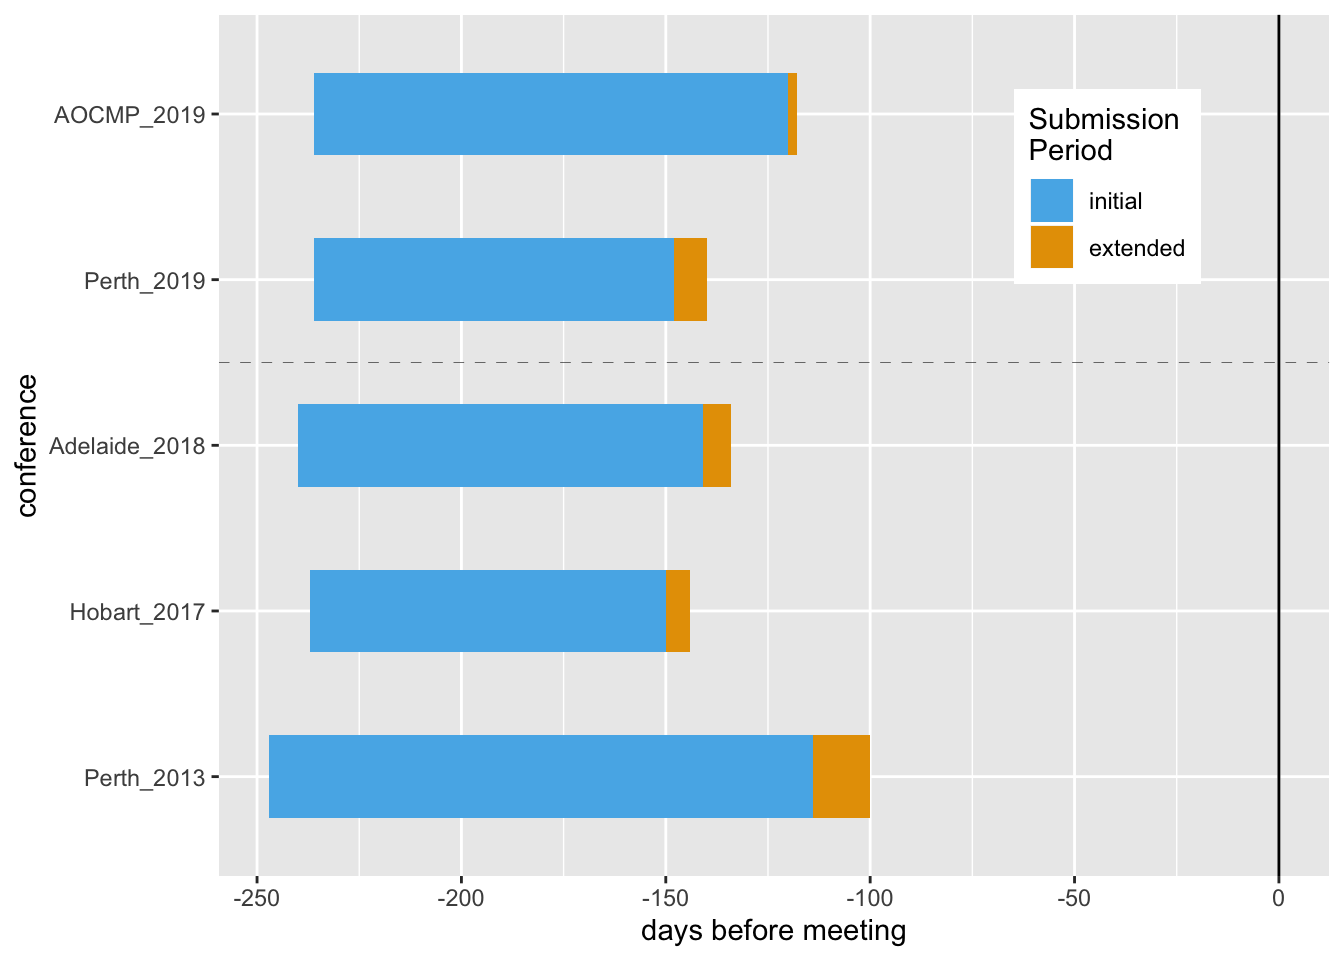
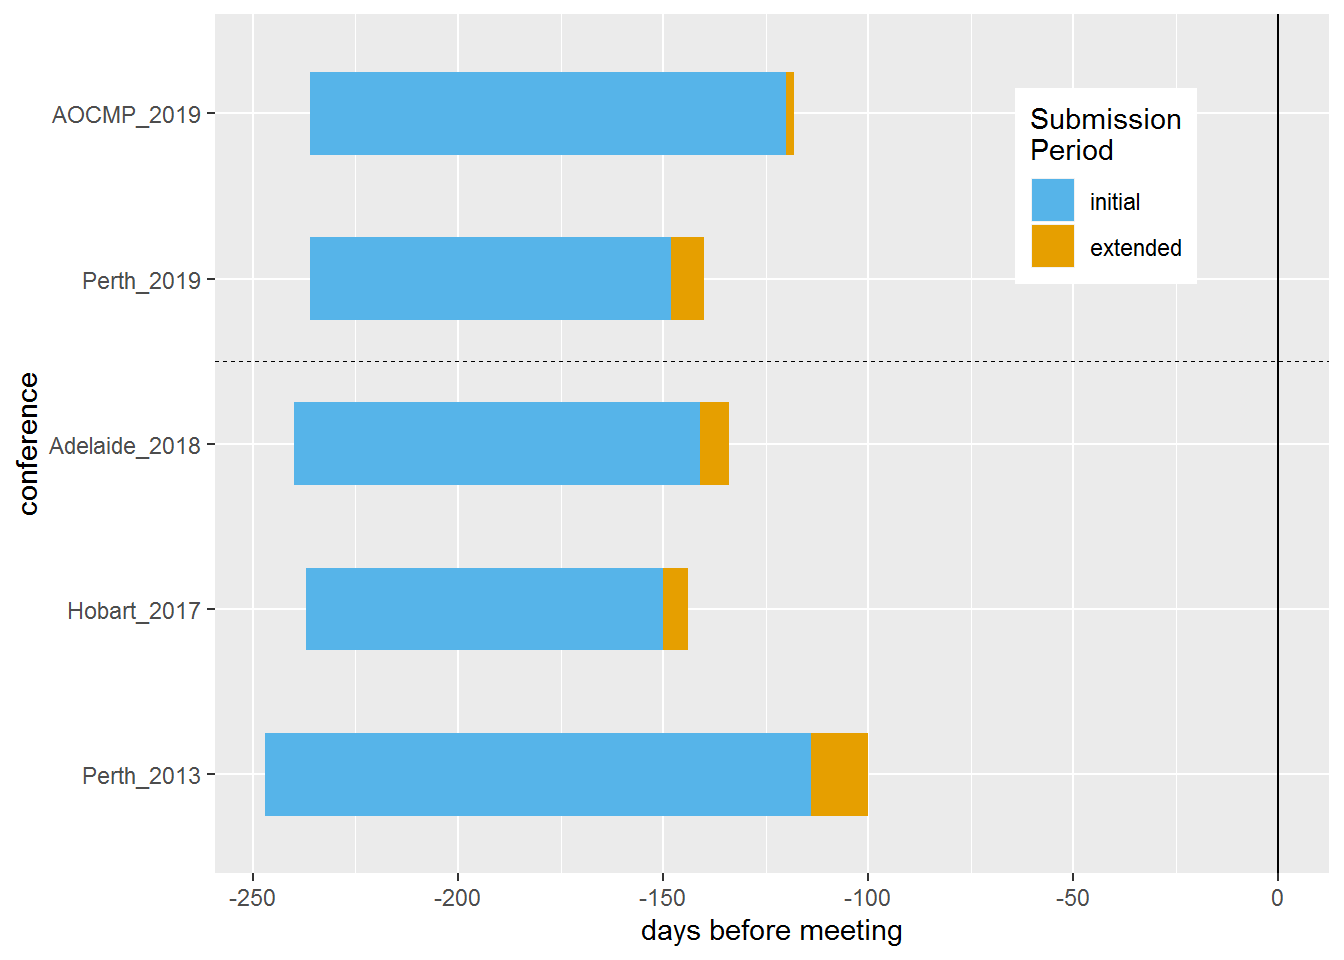
negative days kludge fixed

diff --git a/posterdown_01.html b/posterdown_01.html
@@ -382,12 +382,9 @@ Robert Day<sup>1</sup>
 </div>
 
 <div id="the-prologue" class="section level1">
-<h1>The prologue…</h1>
+<h1>the prologue…</h1>
 <p>When EPSM came to Perth in 2013 it looked like making a huge loss.</p>
-<p>To save money, branch members did most of the work of handling submissions, scheduling and making the abstract book.
-Just like the old days.
-This gave us direct access to the submission data, so we Scienced it.
-What we saw was that people:</p>
+<p>To save money, branch members did most of the work of handling submissions, scheduling and making the abstract book. Just like the old days. This gave us direct access to the submission data, so we Scienced it. What we saw was that people:</p>
 <ol style="list-style-type: lower-alpha">
 <li>left their submission to the very last minute</li>
 <li><em>definitely</em> expected a deadline extension</li>
@@ -397,25 +394,18 @@ What we saw was that people:</p>
 </div>
 <div id="shiny-happy-data" class="section level1">
 <h1>shiny, happy data</h1>
-<p>This year’s Conference The initial raw data contained information that could be used to identify individual papers or submitters.
-To protect everyone’s secret identities, these data were scrubbed clean.
-In the process, they were rearranged into a single standard format for comparison between meetings.
-The technical term for this is <em>munging</em>.</p>
+<p>Some raw data contained information that could be used to identify individual papers or submitters. To protect everyone’s secret identities, these data were scrubbed clean. In the process, they were rearranged into a single standard format for comparison between meetings. The technical term for this is <em>munging</em>.</p>
 <p>Only sparkling clean pre-munged data are included in this project for your convenience.</p>
 </div>
-<div id="results" class="section level1">
-<h1>Results</h1>
+<div id="they-did-what" class="section level1">
+<h1>they did what?</h1>
 <div class="figure" style="text-align: center"><span id="fig:unnamed-chunk-2"></span>
 <img src="posterdown_01_files/figure-html/unnamed-chunk-2-1.png" alt="Time allowed for submissions by conference" width="80%" />
 <p class="caption">
 Figure 1: Time allowed for submissions by conference
 </p>
 </div>
-<p>EPSM conferences vary in the length of time they allow for submitting abstracts,
-although they all call for papers about 240 days before the conference.
-Perth 2013 opened earlier and for longer,
-with an extension period twice that of other conferences.
-This was done to maximise the number of <del>income generating units</del> attendees.</p>
+<p>EPSM conferences vary in the length of time they allow for submitting abstracts, although they all call for papers about 240 days before the conference. Perth 2013 opened earlier and for longer, with an extension period twice that of other conferences. This was done to maximise the number of <del>income generating units</del> attendees.</p>
 There were plenty of papers at each conference.
 <table>
 <caption>
@@ -514,13 +504,13 @@ Hobart_2017
 Perth_2013
 </td>
 <td style="text-align:right;">
-0
+44
 </td>
 <td style="text-align:right;">
-0
+154
 </td>
 <td style="text-align:right;">
-219
+21
 </td>
 <td style="text-align:right;">
 219
@@ -529,18 +519,13 @@ Perth_2013
 </tbody>
 </table>
 <p>Perth 2019 is a monster with the assistance of AOCMP, weighing in at 334 papers in total.</p>
-<p>Hobart in 2017 looks a bit light on, but this may be due to some late submissions
-being missed<a href="#fn1" class="footnote-ref" id="fnref1"><sup>1</sup></a>.</p>
-<p>AOCMP authors appear to be good at keeping to deadlines, with 2/3 of submissions in before the advertised close, and no late submissions.
-<img src="posterdown_01_files/figure-html/unnamed-chunk-4-1.png" width="100%" style="display: block; margin: auto;" /></p>
-<p>By contrast EPSM authors like to live dangerously, with
-38.7%
-of submissions in the extension period on average.</p>
+<p>Hobart in 2017 looks a bit light on, but this may be due to some late submissions being missed<a href="#fn1" class="footnoteRef" id="fnref1"><sup>1</sup></a>.</p>
+<p>AOCMP authors appear to be good at keeping to deadlines, with 2/3 of submissions in before the advertised close, and no late submissions. <img src="posterdown_01_files/figure-html/unnamed-chunk-4-1.png" width="100%" style="display: block; margin: auto;" /></p>
+<p>By contrast EPSM authors like to live dangerously, with 56.3% of submissions in the extension period on average.</p>
 </div>
 <div id="what-themes-abounded" class="section level1">
 <h1>what themes abounded?</h1>
-<p>Only the Perth meetings have submission details, which were grouped by broad themes for comparison.
-<img src="posterdown_01_files/figure-html/unnamed-chunk-5-1.png" width="100%" style="display: block; margin: auto;" /></p>
+<p>Only the Perth meetings have submission details, which were grouped by broad themes for comparison. <img src="posterdown_01_files/figure-html/unnamed-chunk-5-1.png" width="100%" style="display: block; margin: auto;" /></p>
 <p>The share of abstracts in each discipline seems fairly stable over time, although EPSM 2013 had more ROMP and Engineering related content and less Nuclear Medcine or Health Physics. The high number in Engineering may have been because Engineers on the conference committee actively extorted submissions.</p>
 <pre><code>##          topic AOCMP 2019 EPSM 2013 EPSM 2019
 ## 1:         Eng       5.13      7.76      3.69
@@ -549,8 +534,7 @@ of submissions in the extension period on average.</p>
 ## 4:        ROMP      56.41     67.12     64.98
 ## 5:   Radiology       3.42      7.76      7.83
 ## 6:       other      29.06     13.24     17.05</code></pre>
-<p>AOCMP members seem less interested in Radiology Physics, with a lot more ‘other’ abstracts.
-This may be partly an artefact of the wide range of themes in 2019.</p>
+<p>AOCMP members seem less interested in Radiology Physics, with a lot more ‘other’ abstracts. This may be partly an artefact of the wide range of themes in 2019.</p>
 <p>No-one seems to love Health Physics, which is sad.</p>
 </div>
 <div id="embrace-extend" class="section level1">
@@ -559,17 +543,17 @@ This may be partly an artefact of the wide range of themes in 2019.</p>
 <p>The complete package, including the cleaned data, code and the poster template will be at (<a href="https://github.com/yadbor/EPSM-analysis" class="uri">https://github.com/yadbor/EPSM-analysis</a>), or just scan the QR code on this poster.</p>
 </div>
 <div id="references" class="section level1">
-<h1>References</h1>
+<h1>references</h1>
 </div>
 <div id="colophon" class="section level1">
-<h1>Colophon</h1>
+<h1>colophon</h1>
 <p>Made with the <code>posterdown_betterport</code> template for the {posterdown} package, available from CRAN (<a href="https://cran.r-project.org/" class="uri">https://cran.r-project.org/</a>) or github (<a href="https://github.com/brentthorne/posterdown" class="uri">https://github.com/brentthorne/posterdown</a>).</p>
 <p>Written in R (<a href="https://www.r-project.org" class="uri">https://www.r-project.org</a>) and Rmarkdown (<a href="https://rmarkdown.rstudio.com" class="uri">https://rmarkdown.rstudio.com</a>), using RStudio 1.1.463 (<a href="https://rstudio.com" class="uri">https://rstudio.com</a>)</p>
 </div>
 <div class="footnotes">
 <hr />
 <ol>
-<li id="fn1"><p>Rourke, T. 2019 Personal communication.<a href="#fnref1" class="footnote-back">↩</a></p></li>
+<li id="fn1"><p>Rourke, T. 2019 Personal communication.<a href="#fnref1">↩</a></p></li>
 </ol>
 </div>
 
